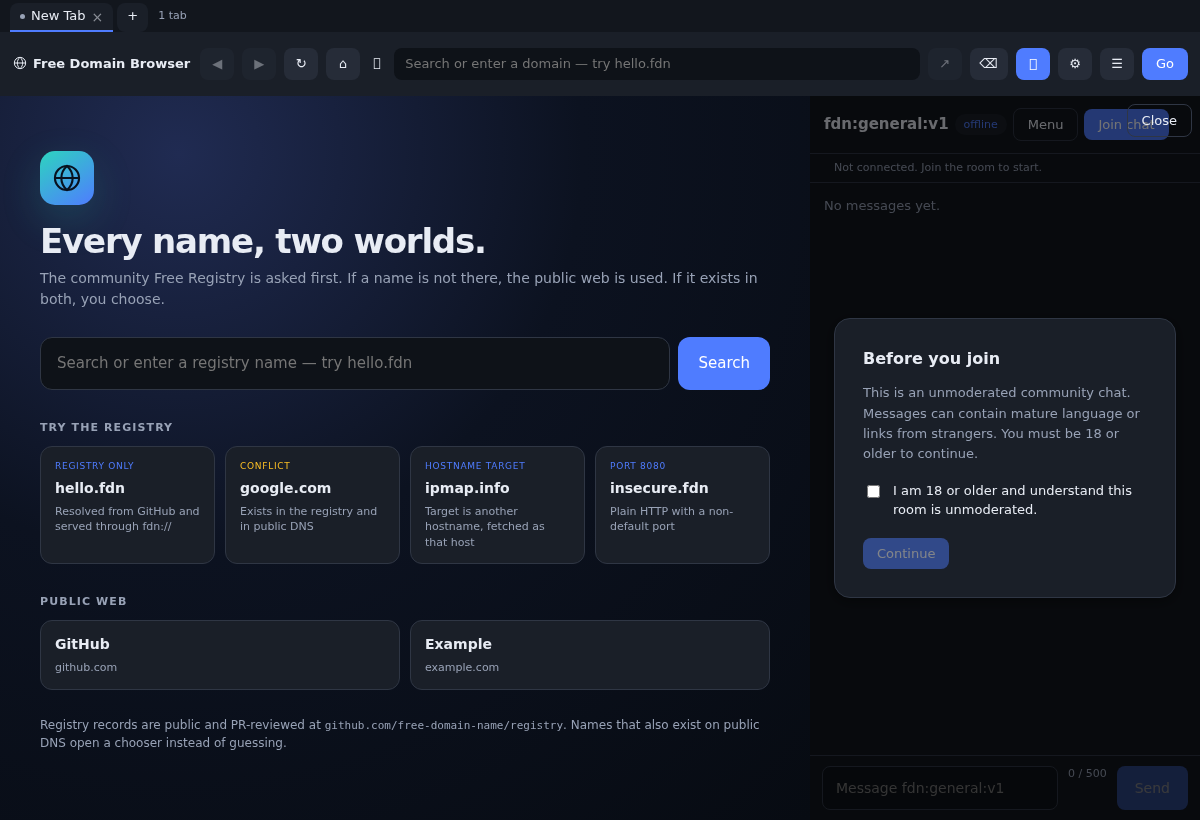
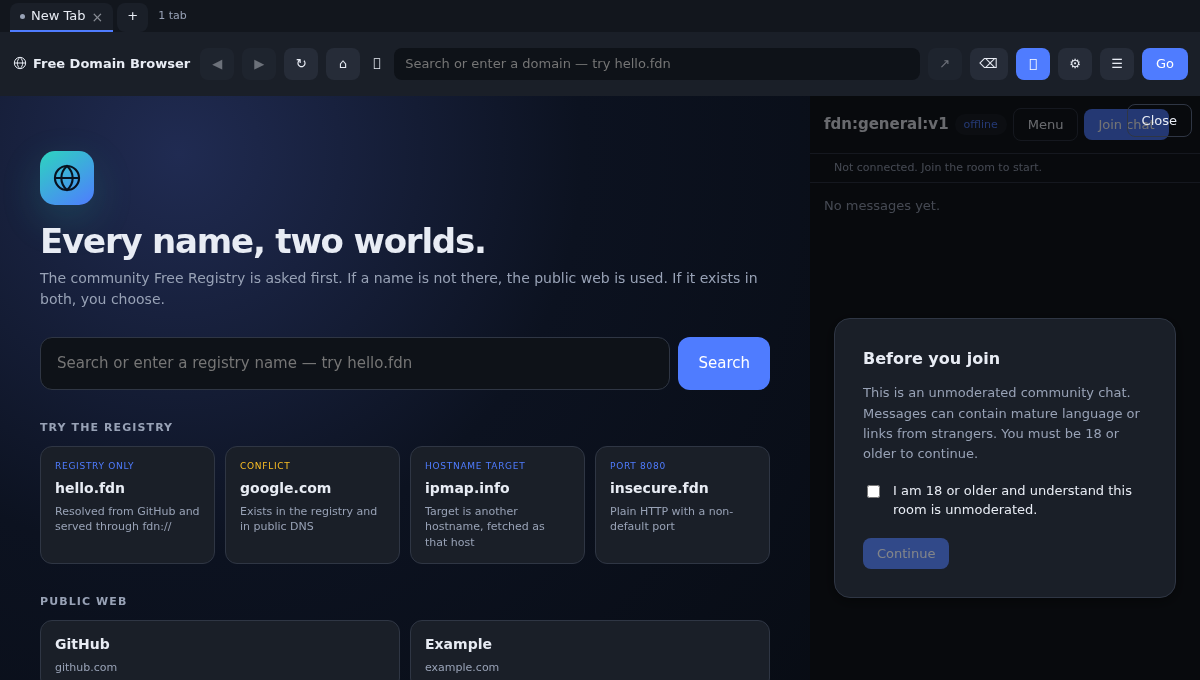
style: the pictures of the page are wide strips, and every one of them opens
The pictures of the browser were tall: a window of 1200 by 820 on a page
that is 1180 wide is a wall of pixels, and the small ones in the gallery
were as tall as the big one.

The shots are now cut to a wide strip, the big picture is shown in one, the
small ones are strips of the chrome bar and the top of the page, and every
picture of the page opens in a dialog of its own when it is clicked. The
pictures are reachable with the keyboard as well.

diff --git a/docs/index.html b/docs/index.html
@@ -152,14 +152,18 @@
             <div class="preview-aura" aria-hidden="true"></div>
             <img
               id="heroShot"
-              class="theme-shot"
+              class="theme-shot zoomable" tabindex="0" role="button"
               src="assets/browser-dark.png"
               data-light="assets/browser-light.png"
               data-dark="assets/browser-dark.png"
               data-alt-light="The Free Domain Browser CEF build on its start page, in the light theme"
               data-alt-dark="The Free Domain Browser CEF build on its start page, in the dark theme"
+              data-zoom="assets/browser-dark.png"
+              data-zoom-light="assets/browser-light.png"
+              data-zoom-dark="assets/browser-dark.png"
+              data-label="The start page of the browser"
               width="1200"
-              height="820"
+              height="680"
               alt="The Free Domain Browser CEF build on its start page, in the dark theme"
               fetchpriority="high"
             />
@@ -184,9 +188,14 @@
         <div class="shot-grid">
           <figure>
             <img
+              class="zoomable"
+              tabindex="0"
+              role="button"
               src="assets/page-light.png"
+              data-zoom="assets/page-light.png"
+              data-label="A page in a tab of the browser"
               width="1200"
-              height="820"
+              height="680"
               loading="lazy"
               alt="A page in a tab of the browser, with the icon of the site in the tab"
             />
@@ -194,9 +203,14 @@
           </figure>
           <figure>
             <img
+              class="zoomable"
+              tabindex="0"
+              role="button"
               src="assets/settings-light.png"
+              data-zoom="assets/settings-light.png"
+              data-label="The settings of the browser"
               width="1200"
-              height="820"
+              height="680"
               loading="lazy"
               alt="The settings of the browser in a tab of their own"
             />
@@ -204,9 +218,14 @@
           </figure>
           <figure>
             <img
+              class="zoomable"
+              tabindex="0"
+              role="button"
               src="assets/chat-dark.png"
+              data-zoom="assets/chat-dark.png"
+              data-label="The community chat of the browser"
               width="1200"
-              height="820"
+              height="680"
               loading="lazy"
               alt="The community chat open beside the page"
             />

diff --git a/docs/site.js b/docs/site.js
@@ -121,10 +121,14 @@
   });
 })();
 
-// The full size picture of the browser opens in a dialog of its own.
+// The full size picture of the browser opens in a dialog of its own. Every
+// picture of the page opens it, and so does the button in the corner of the
+// big one.
 (() => {
-  const zoom = document.querySelector("#heroZoom");
-  if (!zoom) return;
+  const zooms = [...document.querySelectorAll(".zoomable"), document.querySelector("#heroZoom")].filter(
+    (node) => node,
+  );
+  if (!zooms.length) return;
 
   const dialog = document.createElement("dialog");
   dialog.className = "lightbox";
@@ -138,17 +142,32 @@
   dialog.append(image, caption);
   document.body.append(dialog);
 
-  const theme = () => document.documentElement.dataset.theme === "light" ? "light" : "dark";
+  const theme = () => (document.documentElement.dataset.theme === "light" ? "light" : "dark");
 
-  zoom.addEventListener("click", () => {
-    const picture = zoom.dataset[theme()];
+  function open(picture, name) {
     if (!picture) return;
     image.setAttribute("src", picture);
-    image.setAttribute("alt", zoom.dataset.label || "");
-    label.textContent = zoom.dataset.label || "";
+    image.setAttribute("alt", name || "");
+    label.textContent = name || "";
     if (typeof dialog.showModal === "function") dialog.showModal();
     else dialog.setAttribute("open", "");
-  });
+  }
+
+  for (const zoom of zooms) {
+    zoom.addEventListener("keydown", (event) => {
+      if (event.key !== "Enter" && event.key !== " ") return;
+      event.preventDefault();
+      zoom.click();
+    });
+    zoom.addEventListener("click", () => {
+      // The pictures of the browser follow the theme of the page, so the big
+      // one is the picture of the theme that is on.
+      const picture = zoom.dataset.zoom
+        ? zoom.dataset[`zoom${theme() === "light" ? "Light" : "Dark"}`] || zoom.dataset.zoom
+        : zoom.dataset[theme()];
+      open(picture, zoom.dataset.label || zoom.dataset.altLight || "");
+    });
+  }
 
   close.addEventListener("click", () => dialog.close());
   dialog.addEventListener("click", (event) => {

diff --git a/docs/styles.css b/docs/styles.css
@@ -58,6 +58,17 @@
   border-radius: 12px;
 }
 
+/* The picture is a wide strip, so it is shown in one: the window is smaller
+   than the page is wide, and the browser bar stays readable. */
+.hero-preview {
+  max-width: 1040px;
+  margin: 0 auto;
+}
+
+.hero-preview .zoomable {
+  cursor: zoom-in;
+}
+
 .hero-zoom {
   position: absolute;
   right: 15px;
@@ -125,9 +136,15 @@
 .shot-grid img {
   display: block;
   width: 100%;
+  /* The small pictures are strips: the chrome bar and the top of the page.
+     The whole picture is one click away. */
+  aspect-ratio: 16 / 6;
+  object-fit: cover;
+  object-position: top center;
   border: 1px solid var(--line);
   border-radius: 12px;
   background: var(--surface);
+  cursor: zoom-in;
 }
 
 .shot-grid figcaption {

diff --git a/CHANGELOG.md b/CHANGELOG.md
@@ -73,7 +73,8 @@ and the project uses [Semantic Versioning](https://semver.org/spec/v2.0.0.html).
   a page in a tab, the settings and the chat. They are taken by
   `scripts/capture-screens.mjs`, which starts the real build on a virtual
   display and photographs the window, so nothing on the page is drawn for the
-  site.
+  site. The pictures are wide strips, the small ones are shorter still, and
+  every one of them opens in its own dialog when it is clicked.
 - The tabs show the icon of the site, the strip counts them, and the tab you
   are looking at is kept in sight when the strip overflows. The title of the
   page stands in the address bar, and the address comes back when you click
